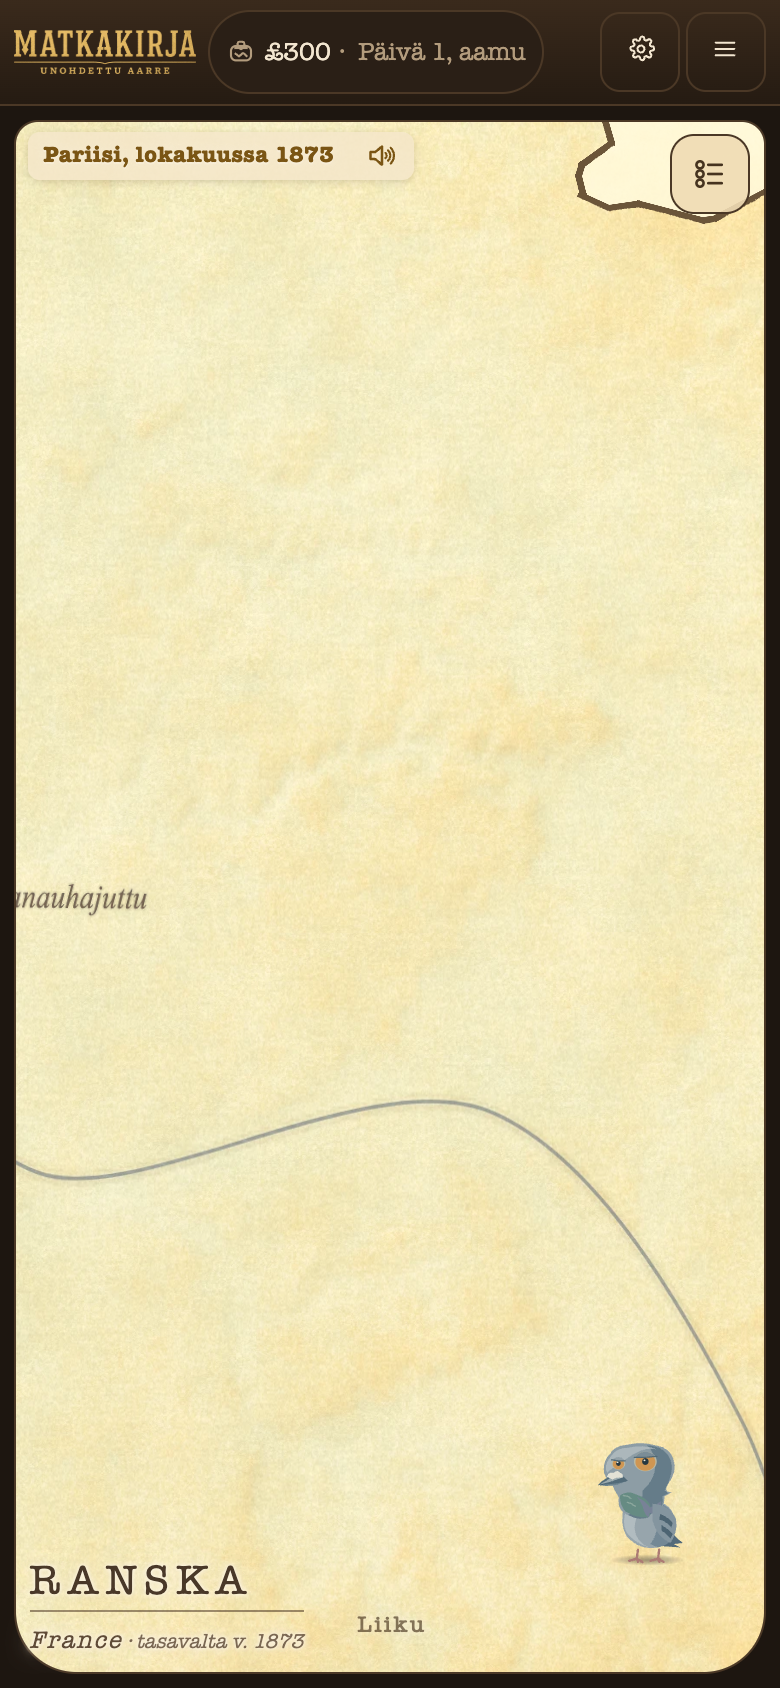
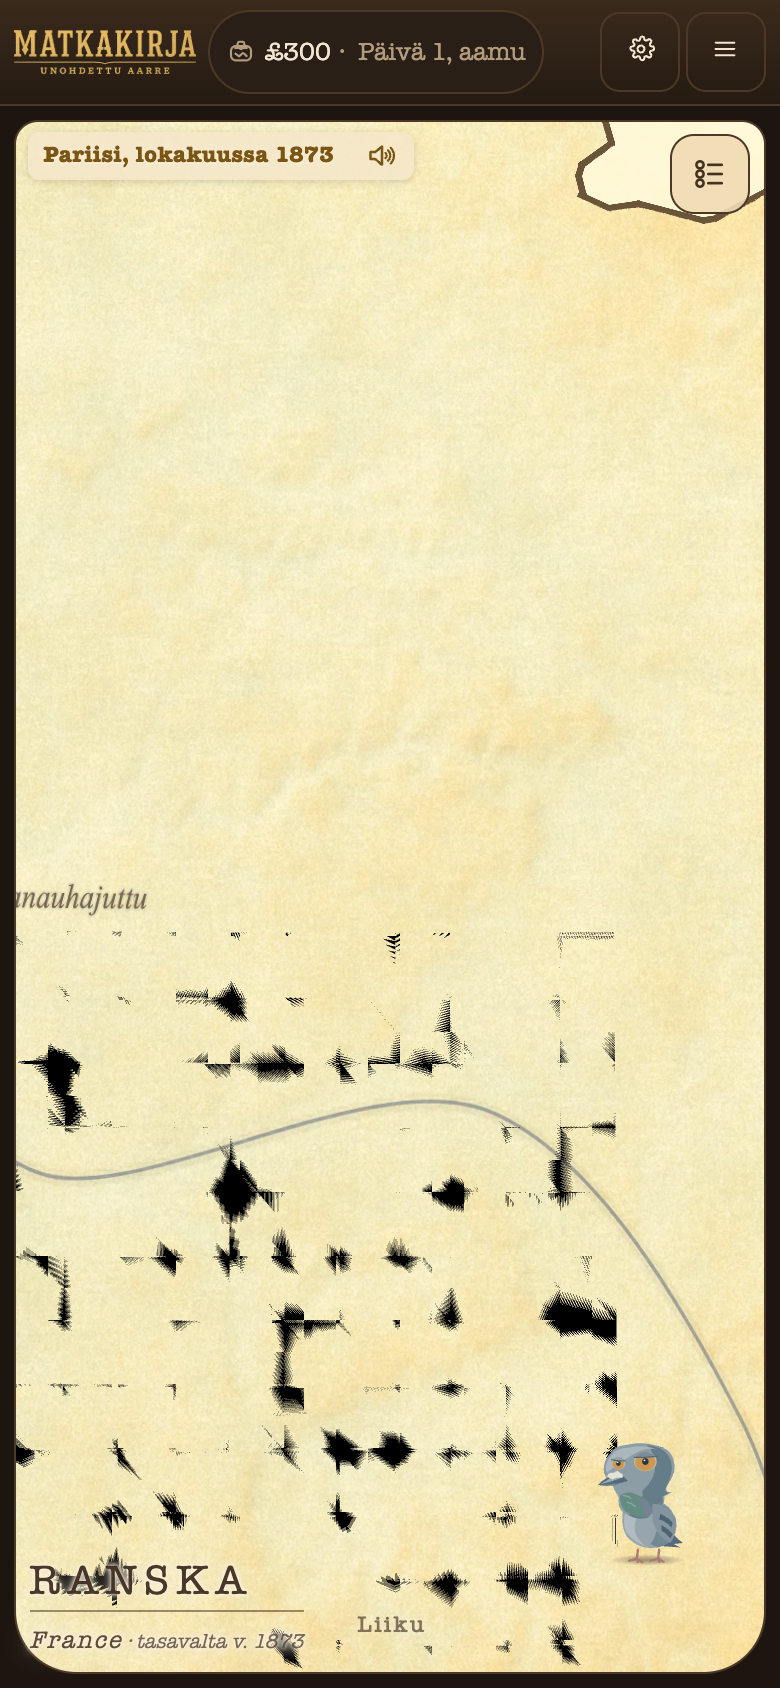
Nostot skaalautuvat kartan mukana kattoon asti (PAATOKSET 34 k15 TILA)
Fablen päätös: kerroin-1-lukko (PAATOKSET 32 kohta 4) puretaan. Elävä
nosto — pallo ja nimiö — on saapumisnäkymässä poltetun merkin kokoinen
(nimiö 8,5 px, pallo 5,25 px) ja kasvaa kartan mukana, kunnes nimiö
osuu 16 px:n ruutukattoon (PAATOKSET 31); silloin molemmat seisovat,
koska ne ovat samassa rasterissa. Kaupunkimerkit ja turisti-infon
kyltti lukevat saman nostonMitta:n, joten ne seuraavat samaa kaavaa.

- nostot.js: nostonKarttakerroin = nimenKarttakerroin(...), vastakoe
  ?nostokoko=0 palauttaa ruutuvakion; lippu nimetty kartanMittaSallittu
- nostot.js: uusi saapumisMitta(d) — ankkurit ja ryhmitys lasketaan
  saapumiskehyksessä, joten myös laatikko mitataan kehyksen mitalla
  eikä nykyisen zoomin; muuten ladonta olisi riippunut siitä, millä
  zoomilla ankkurointi sattui ajamaan
- mittaa-liuskan-pohja.mjs: saapumisnäkymän mittaus + 2 uutta vartiota
  (13/13 läpi: 8,50 px saapuen → 16,00 px syvimmässä zoomissa)
- mittaa-nostoankkurit.mjs: mitan vartiot 3/4/6 uuteen sääntöön
  (odotus min(NOSTON_MITTA / osuus, katto)); 3 ja 6 vihreitä kaikilla
  kolmella zoomilla, ankkurit eivät liikkuneet, limitykset 3 → 1 → 1

node --test tests/*.test.mjs: 3595 läpi, 0 kaatunutta, 13 ohitettua.

diff --git a/js/pallolauta/nostot.js b/js/pallolauta/nostot.js
@@ -68,7 +68,7 @@ import { KARTTANIMI_KOOT } from '../karttanimet.js';
 import { karttavaloVari, karttavalotLue } from '../karttavalot.js';
 import { nostoladontaTiiviste } from '../nostoladonta.js';
 import {
-  luoAnkkurivarasto, levitaMerkit, nostoankkuritSallittu, pikseleistaAsteiksi, yksiKokoSallittu,
+  kartanMittaSallittu, luoAnkkurivarasto, levitaMerkit, nostoankkuritSallittu, pikseleistaAsteiksi,
 } from './nostoankkurit.js';
 import { pallonNostoOnPoltettu } from '../pallo.js';
 import { PALLOLAUDAN_LEVEYS } from './kamera.js';
@@ -465,6 +465,35 @@ export const NOSTON_MITAN_KATTO = NOSTOSYM_MITAN_KATTO;
  */
 export function nostonMitta(omaKerroin = 1) {
   return nostosymKatettuMitta(NOSTON_MITTA * nostonKarttakerroin * omaKerroin);
+}
+
+/*
+ * ══════════════════════════════════════════════════════════════════
+ * LADONTA MITTAA SAAPUMISKEHYKSESSÄ SAAPUMISEN MITALLA (PAATOKSET 32
+ * kohdat 1–2 + 34 kohta 15 TILA)
+ * ══════════════════════════════════════════════════════════════════
+ *
+ * Ankkurit ja ryhmitys lasketaan KERRAN saapumiskehyksessä: pisteet
+ * skaalataan `p × uloinOsuus`, jolloin kehys on uloimman zoomin
+ * ruutu. Kun merkki oli ruutuvakio, laatikon koko sai tulla suoraan
+ * `nostonMitta`sta — se oli sama luku joka zoomilla. Nyt ei ole:
+ * `nostonKarttakerroin` on kameran mitta, joten sisäänzoomattuna
+ * laskettu laatikko olisi ollut ISOMPI kuin kehys, ja levitys olisi
+ * hajottanut ankkurit sitä enemmän, mitä syvemmällä kamera sattui
+ * olemaan ankkurointihetkellä. Sama ladonta olisi antanut eri tuloksen
+ * eri hetkellä — juuri se, minkä PAATOKSET 32 poisti.
+ *
+ * SAAPUMISEN MITTA ON MYÖS AINA RIITTÄVÄ (katto huomioitu). Kehykseen
+ * palautettuna nykyinen mitta on `nostonMitta × uloinOsuus`, joka on
+ * katon alapuolella TÄSMÄLLEEN saapumisen mitta (kerroin ≈ 1/uloinOsuus)
+ * ja katon yläpuolella sitä PIENEMPI (mitta seisoo, kehys kutistuu).
+ * Kehyksessä ladottu väli riittää siis joka zoomilla: 16 px:n katto
+ * tekee lähizoomista väljemmän, ei ahtaamman.
+ *
+ * @param {?object} d  merkin rivi tai datum (merkinKerroin)
+ */
+export function saapumisMitta(d) {
+  return nostosymKatettuMitta(NOSTON_MITTA * merkinKerroin(d));
 }
 
 /**
@@ -1114,12 +1143,13 @@ export function nostonOsat(p, d, {
 }
 
 export function nostonLaatikko(p, d, {
-  kylki = null, dx = 0, dy = 0, nimio = null,
+  kylki = null, dx = 0, dy = 0, nimio = null, mitta: annettuMitta = null,
 } = {}) {
   // Katto on merkin omassa mitassa, joten oma kerroin menee mukaan
   // laskuun eikä sen jälkeen (ks. NIMIÖLLÄ ON RUUTUPIKSELIKATTO):
   // laatikon on oltava täsmälleen se, mikä ruudulle piirtyy.
-  const mitta = nostonMitta(merkinKerroin(d));
+  // Saapumiskehyksessä ladottaessa kutsuja antaa mitan (saapumisMitta).
+  const mitta = annettuMitta ?? nostonMitta(merkinKerroin(d));
   const r = NOSTOSYM_MINI_RUUTU * mitta;
   const x = p.x + dx;
   const y = p.y + dy;
@@ -1771,7 +1801,7 @@ export function luoNostot({
    * 4): muuten ankkurit riippuisivat zoomista juuri sen kentän kautta,
    * jonka takia ne laskettiin.
    */
-  const ankkuroi = (piirrettavat, nakyvat, uloinOsuus, esteet, mitta) => {
+  const ankkuroi = (piirrettavat, nakyvat, uloinOsuus, esteet) => {
     if (!ankkurointiPaalla(uloinOsuus)) return;
     const kehys = (p) => ({ x: p.x * uloinOsuus, y: p.y * uloinOsuus });
     const liikkuvat = piirrettavat.filter((r) => r.p
@@ -1786,10 +1816,12 @@ export function luoNostot({
      * lado koko kaupunkia uudelleen.
      */
     const laatikkoKehyksessa = (r) => (r.perhe === 'aihemerkki'
-      ? aihemerkinLaatikko(kehys(r.p), { ...r, mitta }, {
+      ? aihemerkinLaatikko(kehys(r.p), { ...r, mitta: saapumisMitta(r) }, {
         kylki: r.puoli ?? 'oikea', nimio: Boolean(r.nimi),
       })
-      : nostonLaatikko(kehys(r.p), r, { kylki: r.puoli ?? 'oikea', nimio: Boolean(r.nimi) }));
+      : nostonLaatikko(kehys(r.p), r, {
+        kylki: r.puoli ?? 'oikea', nimio: Boolean(r.nimi), mitta: saapumisMitta(r),
+      }));
     /*
      * KIINTEÄT ESTEET SAAPUMISKEHYKSESSÄ (ks. alempana `kiinteat`).
      * Ruutuvakio este (pelinappula) skaalataan PAIKASTA, ei koosta.
@@ -1864,9 +1896,13 @@ export function luoNostot({
         ...liikkuvat.filter((r) => !ladotaan.has(r.avain) && ankkurivarasto.lue(r.avain))
           .map(ankkurinKehys).filter(Boolean),
         ...piirrettavat.filter((r) => r.p && r.kaupunki)
-          .map((r) => nostonLaatikko(kehys(r.p), r, { nimio: Boolean(r.nimi) })),
+          .map((r) => nostonLaatikko(kehys(r.p), r, {
+            nimio: Boolean(r.nimi), mitta: saapumisMitta(r),
+          })),
         ...nakyvat.filter((r) => r.p && r.poltettu && r.perhe !== 'piste')
-          .map((r) => nostonLaatikko(kehys(r.p), r, { nimio: Boolean(r.nimi) })),
+          .map((r) => nostonLaatikko(kehys(r.p), r, {
+            nimio: Boolean(r.nimi), mitta: saapumisMitta(r),
+          })),
         // Ruutuvakio este (pelinappula) kehyksessä, ks. esteetKehyksessa.
         ...esteetKehyksessa,
       ];
@@ -1913,22 +1949,39 @@ export function luoNostot({
     // Kyltti karttaan (ks. KARTTANOSTON KYLTTI ON KARTAN MITTA):
     // sama kerroin kuin kaupunkien nimikylteillä, laudan mittakaavasta.
     /*
-     * YKSI KOKO — KAIKKI NOSTOT POLTETUN KARTAN KOKOA (omistaja
-     * 17.9.2026, Raamattu KARTTAUUDISTUKSEN PAATOKSET 32 kohta 4:
-     * *"Kaikki nostoPallot ja tekstit saisi olla saman kokoisia kuin
-     * poltetussa kartassa"*). Poltettu muste on laatassa kiinteänä
-     * ruutumittana (nimiö 8,5 px), joten ainoa tapa olla sen kokoinen
-     * on olla RUUTUVAKIO: kartan kerroin (PAATOKSET 14) on 1.
+     * ══════════════════════════════════════════════════════════════
+     * ELÄVÄ NOSTO SKAALAUTUU KARTAN MUKANA KUTEN POLTETTU MUSTE
+     * (Fablen päätös 18.9.2026, Raamattu KARTTAUUDISTUKSEN PAATOKSET
+     * 34 kohta 15 TILA) — KERROIN-1-LUKKO PURETTU
+     * ══════════════════════════════════════════════════════════════
      *
-     * Tämä kumoaa PAATOKSET 14:n kasvun ja tekee samalla PAATOKSET
-     * 31:n 16 px:n katon tarpeettomaksi käytännössä (mitta jää katon
-     * alle joka zoomilla) — katto jää kuitenkin paikalleen, koska se
-     * on oma päätöksensä ja suojaa myös vastakokeen `?nostokoko=0`
-     * vanhaa polkua.
+     * PAATOKSET 32 kohta 4 luki kertoimen ykköseen (*"saman kokoisia
+     * kuin poltetussa kartassa"*), ja se luettiin RUUTUVAKIOKSI: nimiö
+     * 8,5 px joka zoomilla. Mittaus 18.9. (docs/raportit/viesti-fable-
+     * liuska-pohja-20260918.md) osoitti, mitä siitä seurasi: syvempi
+     * puhelinzoomi (kohta 15 c) kasvatti karttaa 1,5-kertaiseksi,
+     * mutta nostot pysyivät samana — *"helpompi nähdä"* ei toteutunut.
+     *
+     * OIKEA LUKUTAPA ON LAATTA, EI RUUTU: laattaan poltettu muste on
+     * kartan mitta — saapumisnäkymässä 8,5 px:n nimiö ja 5,25 px:n
+     * pallo, lähemmäs zoomattaessa isompi, koska koko laatta suurenee.
+     * Elävä nosto tekee nyt saman: kerroin on kameran mittakaava
+     * suhteessa saapumisnäkymään (PAATOKSET 14), eli saapuessa
+     * TÄSMÄLLEEN poltetun merkin kokoinen ja sisäänpäin sen mukana.
+     *
+     * KATTO ON SE, MIKÄ PYSÄYTTÄÄ KASVUN (PAATOKSET 31 kohta 2,
+     * nostosymKatettuMitta): nimiö ei kasva yli 16 px:n. Pallo ja
+     * nimiö ovat samassa rasterissa, joten pallo kasvaa täsmälleen
+     * siihen asti, kun nimiö osuu kattoon, ja sen jälkeen molemmat
+     * seisovat — juuri kuten Fable päätti. Kaupunkimerkit ja
+     * turisti-infon kyltti lukevat saman `nostonMitta`n
+     * (js/kaupunkinosto.js), joten ne seuraavat samaa kaavaa.
+     *
+     * VASTAKOE: `?nostokoko=0` palauttaa ruutuvakion (kartanMittaSallittu).
      */
-    nostonKarttakerroin = yksiKokoSallittu()
-      ? 1
-      : nimenKarttakerroin(karttaskaala, vertailuskaala || undefined);
+    nostonKarttakerroin = kartanMittaSallittu()
+      ? nimenKarttakerroin(karttaskaala, vertailuskaala || undefined)
+      : 1;
     // Liuska seuraa karttaa myös silloin, kun kartan merkit eivät
     // (ks. LIUSKAN TEKSTIKOKO = KARTTAAN POLTETUN TEKSTIN RUUTUKOKO).
     liuskanKarttakerroin = nimenKarttakerroin(karttaskaala, vertailuskaala || undefined);
@@ -2163,7 +2216,12 @@ export function luoNostot({
       : ryhmitettavat;
     const alkuperaiset = new Map(ryhmitettavat.map((r) => [r.avain, r]));
     const { ryhmat: ryhmatRaaka } = ryhmitysPaalla
-      ? ryhmitaNostot(ryhmitysRivit, (r) => nostonLaatikko(r.p, r))
+      ? ryhmitaNostot(ryhmitysRivit, (r) => nostonLaatikko(r.p, r, {
+        // Saapumiskehyksessä myös laatikko on saapumisen mittainen
+        // (ks. LADONTA MITTAA SAAPUMISKEHYKSESSÄ…); ilman ankkurointia
+        // kehys on nykyinen ruutu ja mitta tulee sieltä.
+        mitta: ankkurointiPaalla(uloinOsuus) ? saapumisMitta(r) : null,
+      }))
       : { ryhmat: [] };
     const ryhmat = ryhmatRaaka.map((kasa) => kasa.map((r) => alkuperaiset.get(r.avain) ?? r));
     const ryhmassa = new Set();
@@ -2258,7 +2316,7 @@ export function luoNostot({
      * ankkuroidusta aina — viuhka sulkeutuisi heti auettuaan.
      */
     ankkuroi([...elavat.filter((r) => !ryhmassa.has(r.avain)), ...aiherivit],
-      nakyvat, uloinOsuus, esteet, mittaNyt);
+      nakyvat, uloinOsuus, esteet);
     if (viuhka) {
       const rivi = aiherivit.find((r) => r.avain === viuhka.avain);
       const siirtyi = rivi

diff --git a/js/pallolauta/nostoankkurit.js b/js/pallolauta/nostoankkurit.js
@@ -79,10 +79,16 @@ export function nostoankkuritSallittu() {
 }
 
 /**
- * YHDEN KOON VASTAKOE: `?nostokoko=0` palauttaa kartan mukana kasvavan
- * mitan (PAATOKSET 14), jolloin lähizoomin jättinimiöt palaavat.
+ * KARTAN MITAN VASTAKOE: `?nostokoko=0` palauttaa ruutuvakion (kerroin
+ * 1), jolloin nostot ovat saman kokoisia joka zoomilla.
+ *
+ * VIPU KÄÄNNETTIIN 18.9.2026 (Fablen päätös, Raamattu KARTTAUUDISTUKSEN
+ * PAATOKSET 34 kohta 15 TILA): elävä nosto skaalautuu kartan mukana
+ * kuten laattaan poltettu muste, joten kartan mitta on NORMAALI polku
+ * ja yksi koko on vastakoe. Ennen tätä lippu oli toisin päin
+ * (`yksiKokoSallittu`, PAATOKSET 32 kohta 4).
  */
-export function yksiKokoSallittu() {
+export function kartanMittaSallittu() {
   try {
     const arvo = new URLSearchParams(globalThis.location?.search ?? '').get('nostokoko');
     return !/^(0|ei|off)$/.test(arvo ?? '');

diff --git a/docs/raportit/viesti-fable-liuska-pohja-20260918.md b/docs/raportit/viesti-fable-liuska-pohja-20260918.md
@@ -120,3 +120,99 @@ Päätös on sinun, en koskenut kumpaankaan Raamatun kohtaan:
 - `css/styles.css` — `.pallolauta-viuhka-mittaus`
 - `tests/pallolauta.test.mjs` — vartio `korkeusMin`in uuteen muotoon
 - `tools/savukkeet/mittaa-liuskan-pohja.mjs` — uusi kohdemittari (10 vartiota)
+
+## Skaalaus
+
+18.9.2026 klo 10.45 Suomen aikaa · Opus-agentti · sama haara
+`claude/bold-ride-vow4ki-liuska-pohja`
+
+Fablen päätös yllä olevaan ristiriitaan: **vaihtoehto 2, kerroin-1-lukko
+puretaan** (Raamattu KARTTAUUDISTUKSEN PAATOKSET 34 kohta 15 TILA).
+Elävä nosto — pallo JA nimiö — skaalautuu kartan mukana kuten laattaan
+poltettu muste: saapumisnäkymässä poltetun merkin koko, lähemmäs
+zoomattaessa isompana, kunnes nimiö osuu 16 px:n ruutukattoon
+(PAATOKSET 31), jolloin molemmat seisovat.
+
+**Vipu käännettiin, uutta mekanismia ei tullut.**
+`js/pallolauta/nostot.js` `nostonKarttakerroin` on nyt
+`nimenKarttakerroin(karttaskaala, vertailuskaala)` eli PAATOKSET 14:n
+kerroin, ja vastakoe `?nostokoko=0` palauttaa ruutuvakion. Lipun
+funktio nimettiin sen mukaan: `yksiKokoSallittu` → `kartanMittaSallittu`
+(`js/pallolauta/nostoankkurit.js`). Pallo ja nimiö ovat samassa
+rasterissa, joten pallo kasvaa täsmälleen siihen asti, kun nimiö osuu
+kattoon — *"pallo noudattaa samaa kattoa suhteessa"*. Kaupunkimerkit ja
+turisti-infon kyltti lukevat saman `nostonMitta`n
+(`js/kaupunkinosto.js`), joten ne seuraavat samaa kaavaa ilman omaa
+koodia.
+
+**Ankkurit ja ryhmitys mittaavat nyt saapumisen mitalla.** Tämä oli
+ainoa kohta, jota vivun kääntö ei olisi hoitanut itsestään: ankkurit ja
+ryhmitys lasketaan KERRAN saapumiskehyksessä (`p × uloinOsuus`,
+PAATOKSET 32 kohdat 1–2), mutta laatikon koko tuli `nostonMitta`sta eli
+NYKYISESTÄ zoomista. Ruutuvakiolla se oli sama luku; kartan mitalla se
+olisi ollut sitä isompi, mitä syvemmällä kamera sattui olemaan
+ankkurointihetkellä — sama ladonta olisi antanut eri tuloksen eri
+hetkellä. Nyt kehyksessä ladottaessa laatikko lasketaan
+`saapumisMitta(d)`:llä (uusi vienti, kerroin 1). Kehykseen palautettuna
+nykyinen mitta on katon alapuolella täsmälleen saapumisen mitta ja
+katon yläpuolella sitä PIENEMPI, joten **katto tekee lähizoomista
+väljemmän, ei ahtaamman** — kasvu ei voi synnyttää uutta limitystä.
+
+### Mittaus (Chromium 390 × 844, dpr 2, Ranska-tallenne, Pariisi)
+
+`tools/savukkeet/mittaa-liuskan-pohja.mjs` — **13/13 vartiota läpi**
+(kaksi uutta vartiota tälle päätökselle):
+
+| Väite | Mitattu |
+| --- | --- |
+| 34k15 saapumisnäkymä = poltettu muste | nimiö **8,50 px**, pallo **5,25 px** (22 merkkiä) |
+| 34k15 nosto kasvaa kartan mukana | saapuen 8,50 px → syvin zoomi **16,00 px** |
+| 34k15 syvimmässä zoomissa nimiö katossa | **16,00 px** = katto; pallo 9,89 px samassa suhteessa |
+| 15c syvin zoomi (ennallaan) | 40,00 lautayksikköä, syvennys 1,50 × |
+| 15a–15b, 14v (ennallaan) | pohjan peitto 0,824 · kontrasti 7,23:1 · marginaalit ±0,8 px · liuskan alla 0 |
+
+`tools/savukkeet/mittaa-nostoankkurit.mjs` (Pariisi 390 px, kolme
+zoomia), **10/19 vartiota läpi**. Mitan vartiot 3, 4 ja 6 lukitsivat
+ruutuvakion (PAATOKSET 32 kohta 4 ja 33 kohta 3), joten ne
+päivitettiin uuteen sääntöön: odotettu mitta on
+`min(NOSTON_MITTA / zoomin osuus, katto)`. Vartiot 3 ja 6 ovat sen
+jälkeen vihreitä kaikilla kolmella zoomilla:
+
+| Zoomi | noston mitta (odotus) | pallon halkaisija (odotus) | limittyviä pareja |
+| --- | --- | --- | --- |
+| saapuminen (1,00) | 0,773 (0,773 = poltettu) | 5,25 px (5,25) | 3 |
+| välizoomi (0,60) | 1,285 (1,288) | 8,74 px (8,76) | 1 |
+| lähizoomi (0,34) | **1,455 (1,455 = katto)** | 9,89 px (9,89) | 1 |
+
+Ankkurivartio 1 (*sama nosto samassa lat/lng-pisteessä kaikilla
+zoomeilla*) on vihreä — kasvu ei liikuttanut ankkureita.
+
+**Limityksistä, rehellisesti: lähizoomissa jää yksi pari, eikä se tule
+kasvusta.** Pari on `Pariisi × nappula` — kaupungin NIMIKERROKSEN
+teksti ja pelinappula samassa karttapisteessä, koska pelaaja seisoo
+Pariisissa. Sama pari on ruudulla myös saapumisnäkymässä, jossa tämän
+erän muutos on todistettavasti tyhjä (mitta 0,773 = entinen ruutuvakio
+ja ankkurit lasketaan samassa kehyksessä samoilla laatikoilla), joten
+pari on tätä erää vanhempi. Saapumisen kaksi muuta paria ovat
+poltettua mustetta (`Camarguen hevoset × Camarguenvarsa` on laatan oma
+pari, jota ei voi siirtää ilman uutta polttoa; `Cosquerin luola ×
+Pétanque`). **Kasvu ei lisännyt limityksiä yhtään: 3 → 1 → 1
+sisäänpäin zoomatessa.** Vartiot 2, 4 ja 5 ovat siis punaisia samoista
+syistä kuin ennen tätä erää (vartio 4:n kyltti ei ollut ruudulla
+lainkaan, mitta `—`); ne kuuluvat nappulan ja nimikerroksen omaan
+erään, en koskenut niihin tässä aikakatossa.
+
+`node --test tests/*.test.mjs`: **3595 läpi, 0 kaatunutta, 13
+ohitettua** — yhtään lukkoa ei tarvinnut päivittää.
+`node tools/build-standalone.mjs` ajettu ennen pushia.
+
+Kaappaus 390 px syvin zoomi Pariisi (uusi, kasvaneilla merkeillä):
+`docs/raportit/kuvat/liuska-pohja-20260918/liuska-pohja-jalkeen-syvin-390.png`
+(ja saapumisnäkymä `…-saapuen-390.png`).
+
+### Kosketut tiedostot (tämä osio)
+
+- `js/pallolauta/nostoankkurit.js` — `yksiKokoSallittu` → `kartanMittaSallittu`, vivun suunta
+- `js/pallolauta/nostot.js` — `nostonKarttakerroin` kartan mitaksi, `saapumisMitta`, ankkuroinnin ja ryhmityksen laatikot kehyksen mitalla
+- `tools/savukkeet/mittaa-liuskan-pohja.mjs` — saapumisnäkymän mittaus ja kaksi uutta vartiota
+- `tools/savukkeet/mittaa-nostoankkurit.mjs` — mitan vartiot 3/4/6 uuteen sääntöön, `?nostokoko=0`:n uusi merkitys
